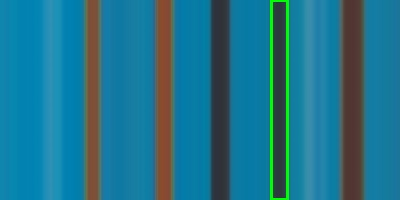
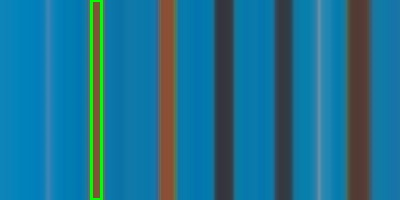
Data 1.5

diff --git a/resistor_detect_new_logic.py b/resistor_detect_new_logic.py
@@ -17,10 +17,10 @@ RED_TOP_UPPER = (179, 255, 200)
 
 # Define color bounds
 COLOUR_BOUNDS = [
-    [(0, 0, 0), (179, 255, 80), "BLACK", 0, (255, 255, 0)],
-    [(90, 0, 60), (179, 255, 110677), "BROWN", 1, (0, 255, 102)],
+    [(0, 0, 0), (179, 255, 75), "BLACK", 0, (255, 255, 0)],
+    [(0, 0, 0), (92, 255, 100), "BROWN", 1, (0, 255, 102)],
     [(148, 95, 99), (177, 158, 125), "RED", 2, (128, 0, 128)],
-    [(6, 197, 87), (20, 255, 255), "ORANGE", 3, (0, 128, 255)],
+    [(5, 101, 0), (70, 195, 149), "ORANGE", 3, (0, 128, 255)],
     [(22, 103, 164), (35, 255, 255), "YELLOW", 4, (0, 255, 255)],
     [(30, 76, 89), (87, 255, 184), "GREEN", 5, (0, 255, 0)],
     [(113, 40, 82), (125, 255, 255), "BLUE", 6, (255, 0, 0)],
